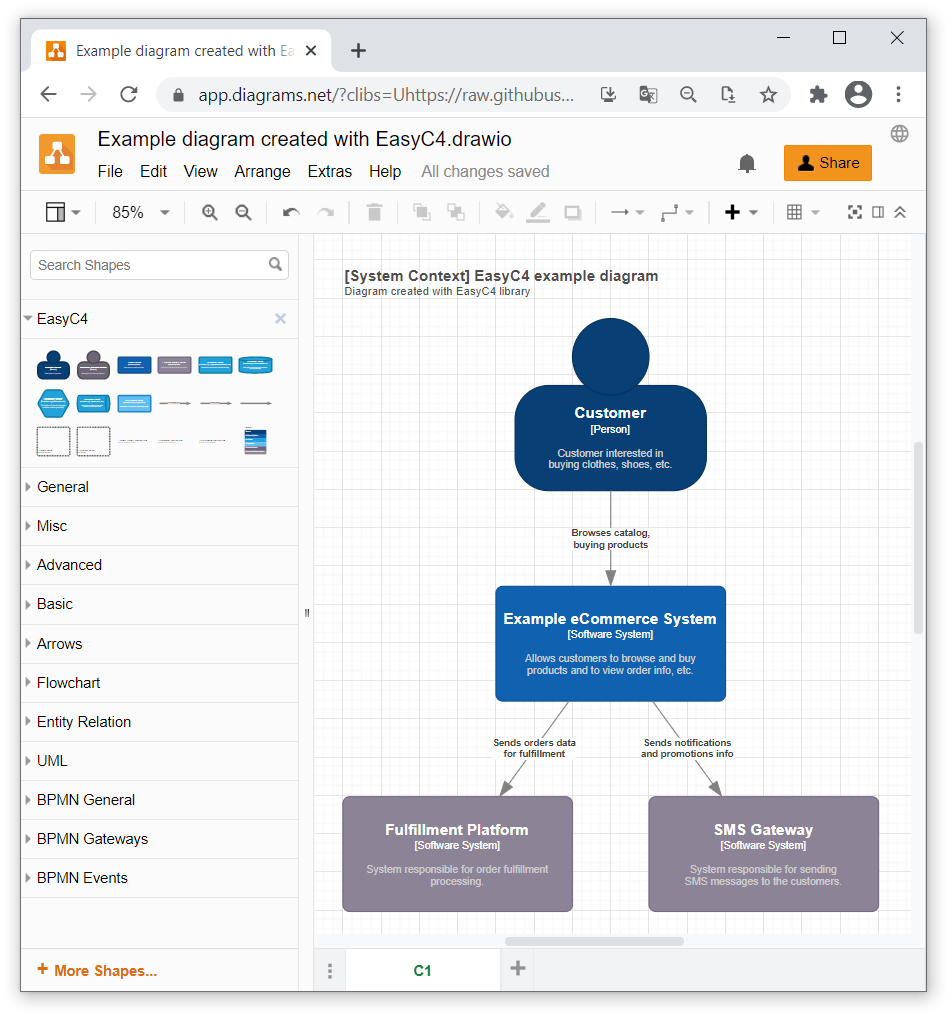
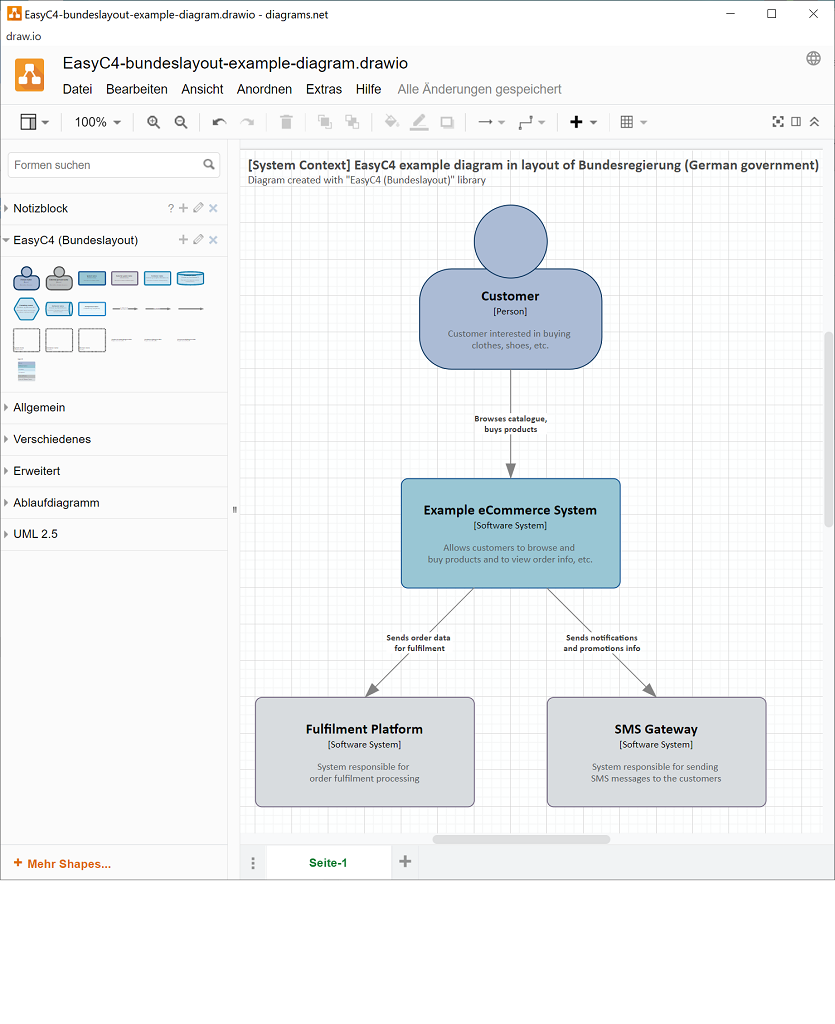
README and related images updated

diff --git a/README.md b/README.md
@@ -1,8 +1,18 @@
+# EasyC4 in Bundeslayout for diagrams.net
+
+This is an adaptation of the original EasyC4 library in the colours of Bundesregierung CI as documented at https://styleguide.bundesregierung.de/sg-de/basiselemente/farben.
+
+Check out the original library at https://github.com/maciek365/c4-diagrams.net.
+
+All copyright is either on Maciek Sliwinski as original author or German government (Bundesregierung) for the colour scheme. No rights are claimed by me.
+
+In the following you find mostly the original text of the EasyC4 library, where the images are replaced.
+
 # EasyC4 for diagrams.net
 
 ---
 
-Please also check the **newest version** of my plugin available at https://github.com/hycomsa/hycom-c4
+Please also check the **newest version** of Maciek's plugin available at https://github.com/hycomsa/hycom-c4
 
 The new version contains slightly smaller, more compact elements - seems to be more readable. You also find there additional types of containers - web browser and mobile application. Maybe new version will be more suitable for you.
 
@@ -20,19 +30,19 @@ The **EasyC4** provides the following easy to use elements:
 - Diagram title (for system context, containers and components diagrams)
 - Legend
 
-![c4-diagrams.net](/c4-diagrams-net-maciek365.png)
+![c4-diagrams.net-bundeslayout](/c4-diagrams-net-bundeslayout.png)
 ---
 
 # How to start?
 ## Just click the link!
-You can start very, very easy! Just click following link and start using **EasyC4** library: https://app.diagrams.net/?clibs=Uhttps://raw.githubusercontent.com/maciek365/c4-diagrams.net/master/EasyC4&splash=0
+You can start very, very easy! Just click following link and start using **EasyC4** library: https://app.diagrams.net/?clibs=Uhttps://raw.githubusercontent.com/hayosc/c4-diagrams.net-bundeslayout/master/EasyC4%20(Bundeslayout)&splash=0
 
 
 ## Use it simply!
 Simply use elements available in **EasyC4** library to create diagrams in very convenient way! Just drag elements from library and double click on it to edit titles and descriptions. This is the most intuitive way to do it quick and easy with keeping aesthetic and readable form.
 
 Below on the screen you can see **EasyC4** library on the left panel of *diagrams.net* application.
-![c4-diagrams.net](/EasyC4-screen.png)
+![c4-diagrams.net-bundeslayout](/EasyC4-bundeslayout-screen.png)
 
 
 # Credits
